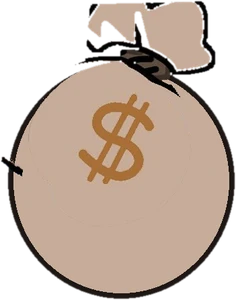
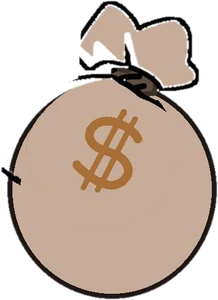
fix: 장식 컷아웃 잘림 보정 — 술 장식 왼자락·박쥐 실루엣 먹선·복주머니 매듭
- 술 장식: 크롭을 원화 왼끝까지 넓혀 흐르는 왼쪽 자락 복원 (310→413px 폭)
- 박쥐: 원화가 날개 윗변에 먹선이 없는 스타일이라 단독 스티커로는 잘려 보임 → 실루엣 전체에 5px 먹선 스트로크
- 복주머니: 크롭 상단 45px 확장으로 매듭·귀 플랩 온전히
- 표시 크기 비율 갱신 (술 140x190, 박쥐 94x57, 복주머니 62x85)

Changed region(s): [[0.0, 0.0, 1.0, 1.0]]

diff --git a/src/components/home/HomeDeco.tsx b/src/components/home/HomeDeco.tsx
@@ -6,7 +6,7 @@ export function HomeDeco() {
   return (
     <div aria-hidden className="pointer-events-none absolute inset-0 z-10 hidden select-none xl:block">
       <div className="home-hang absolute left-[4vw] top-0">
-        <Image src="/home/deco/hanging-tassel.webp" alt="" width={108} height={195} />
+        <Image src="/home/deco/hanging-tassel.webp" alt="" width={140} height={190} />
       </div>
       <Image
         src="/home/deco/wisp-a.webp"
@@ -18,8 +18,8 @@ export function HomeDeco() {
       <Image
         src="/home/deco/deco-bat.webp"
         alt=""
-        width={92}
-        height={54}
+        width={94}
+        height={57}
         className="home-wisp-float absolute right-[5vw] top-[130px] [animation-delay:0.8s]"
       />
       <Image

diff --git a/src/components/home/HomeFooter.tsx b/src/components/home/HomeFooter.tsx
@@ -10,8 +10,8 @@ export function HomeFooter() {
         alt=""
         aria-hidden
         width={62}
-        height={79}
-        className="pointer-events-none absolute -top-[70px] left-5 select-none"
+        height={85}
+        className="pointer-events-none absolute -top-[78px] left-5 select-none"
       />
       {/* 원화 장식 — 푸터 위를 걷는 검은 고양이(15화) */}
       <Image
